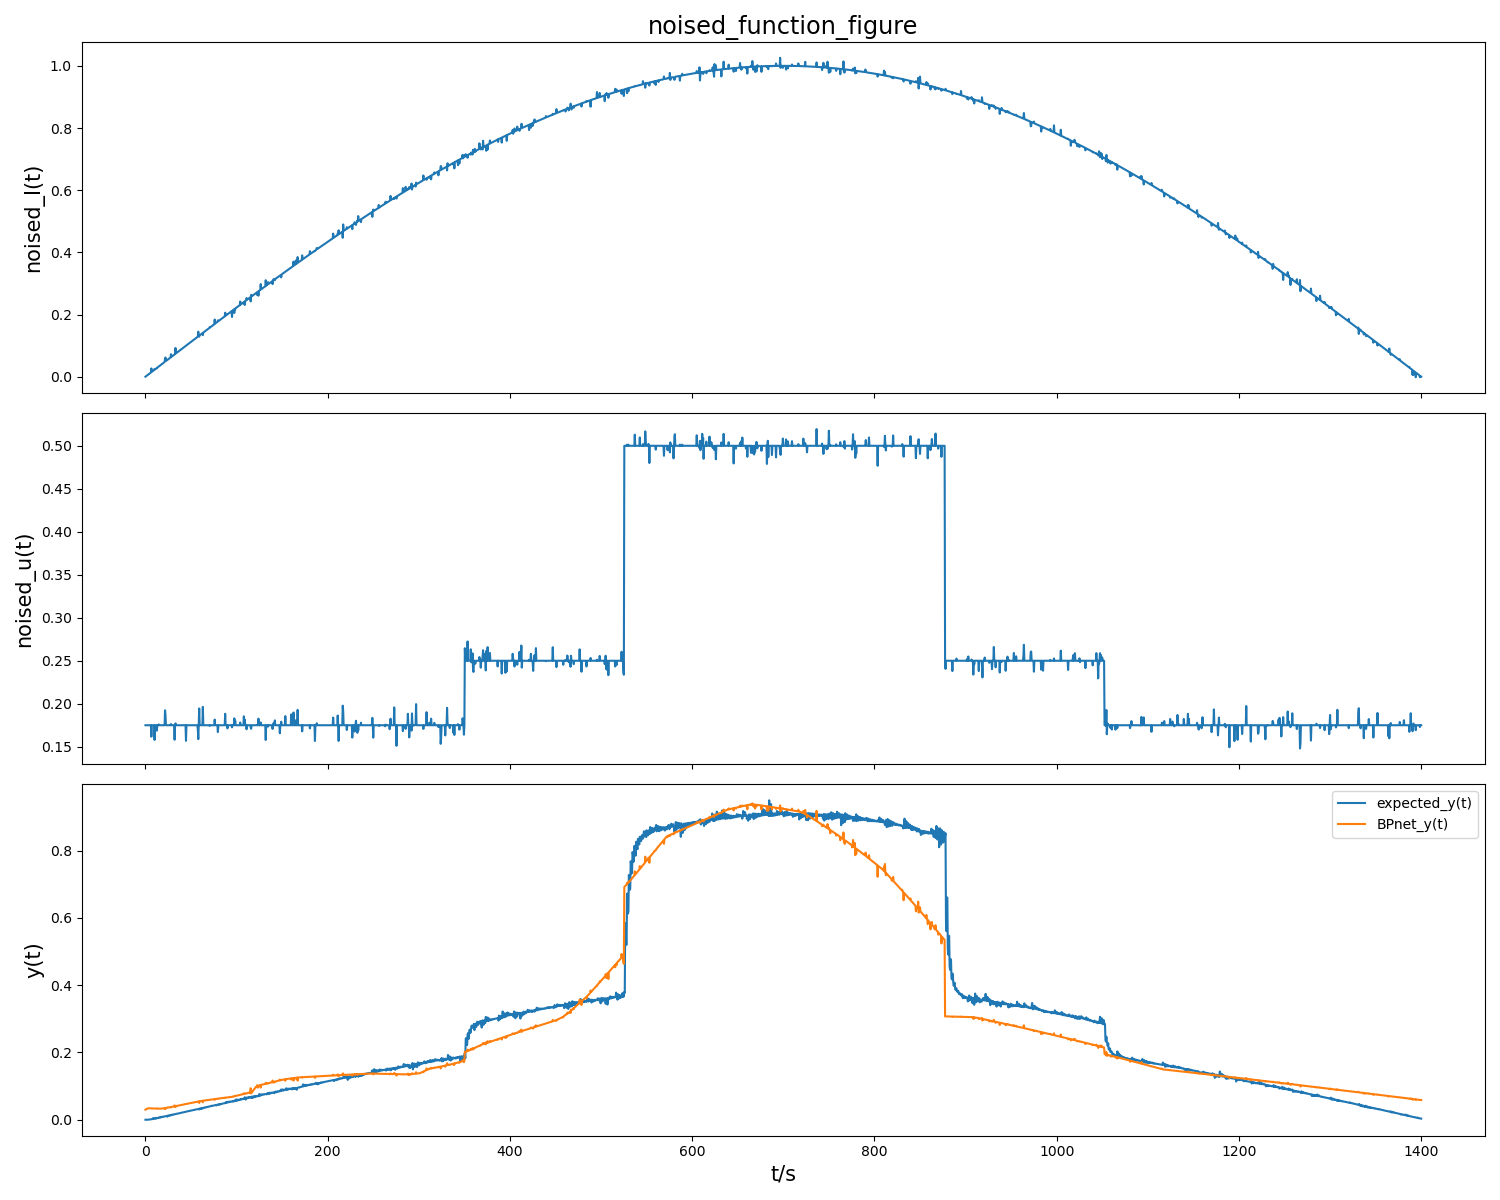
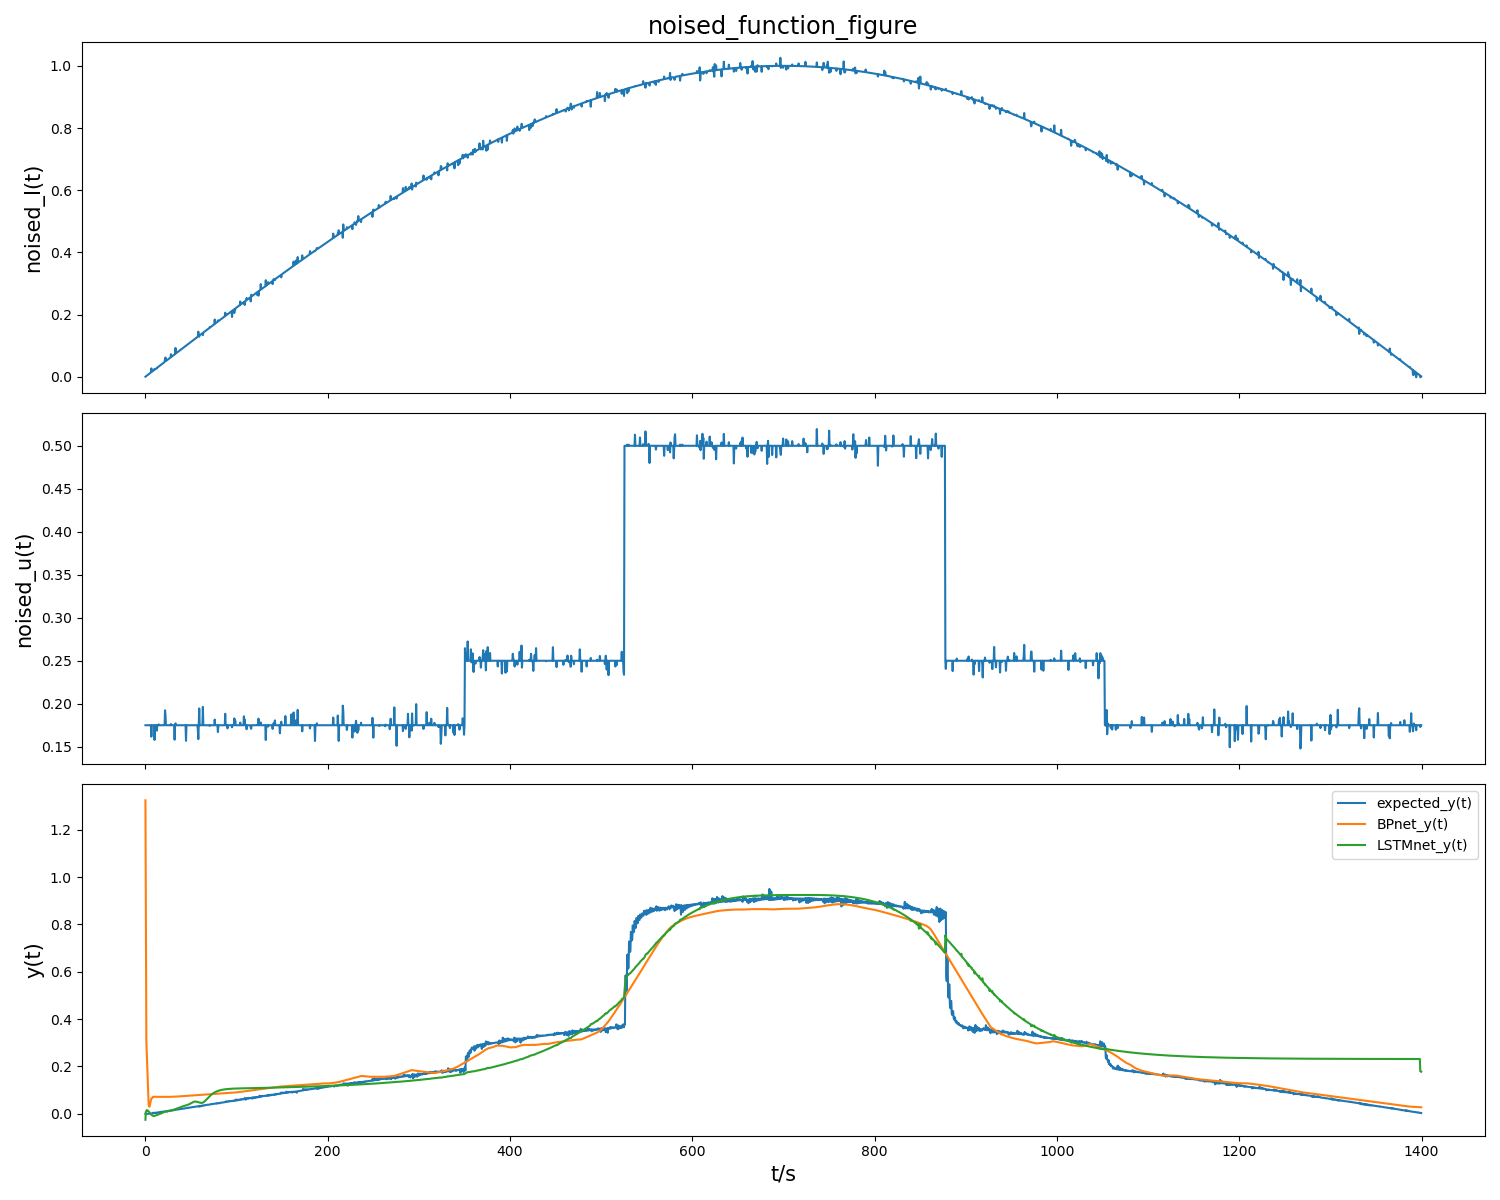
all finished

diff --git a/work3_LSTM.py b/work3_LSTM.py
@@ -10,7 +10,6 @@ from torch import nn
 import numpy as np
 import matplotlib.pyplot as plt
 from dataset import dataset
-import torchvision.transforms as transforms
 
 
 batch_size = 2000
@@ -63,7 +62,7 @@ class Mydataset(torch.utils.data.Dataset):
 
 
 class MyLSTM(nn.Module):
-    def __init__(self, inp_dim, out_dim, mid_dim, mid_layers, batch):
+    def __init__(self, inp_dim, out_dim, mid_dim, mid_layers, batch=True):
         """
         :param inp_dim: 单个样本点的特征维度，这里为 3
         :param out_dim: 所需预测输出的维度，这里为 1
@@ -90,82 +89,136 @@ class MyLSTM(nn.Module):
         return y
 
 
+def LSTM_mean(data_2D):
+
+    temp_2D = np.zeros((data_2D.shape[0], data_2D.shape[0]+3), dtype=np.float32)
+    for i in range(temp_2D.shape[0]):
+        temp_2D[i][i:i+4] = data_2D[i][:]
+    # data_1D = np.mean(temp_2D, 0)  # 沿着0方向取均值
+    exist = (temp_2D != 0)
+    num = np.sum(temp_2D, axis=0)
+    den = exist.sum(axis=0)
+    data_1D = num/den
+    return data_1D
+
+
 if __name__=="__main__":
 
     device = torch.device("cuda" if torch.cuda.is_available() else "cpu")
-    net = MyLSTM(input_size, output_size, mid_dim, mid_layers, True).to(device)
+    net = MyLSTM(input_size, output_size, mid_dim, mid_layers).to(device)
     criterion = nn.MSELoss()
     optimizer = torch.optim.Adam(net.parameters(), lr=1e-2)
 
     """ ---------------------使用Mydataset类进行训练和测试-----------------------"""
-    data_train = Mydataset(dataset, used_train_index)  # 训练集初始化
-    train_loader = torch.utils.data.DataLoader(data_train, batch_size=batch_size, shuffle=True)
+    # data_train = Mydataset(dataset, used_train_index)  # 训练集初始化
+    # train_loader = torch.utils.data.DataLoader(data_train, batch_size=batch_size)
+    #
+    # data_test = Mydataset(dataset, used_test_index)  # 测试集初始化
+    # test_loader = torch.utils.data.DataLoader(data_test, batch_size=400)
+    #
+    # data_test_rest = Mydataset(dataset, unused_data_index)  # 原始数据中剩余的数据集进行测试
+    # test_rest_loader = torch.utils.data.DataLoader(data_test_rest, batch_size=450)
+    # # 开始训练，并进行测试
+    # train_loss_record = []  # 保存训练数据
+    # test_loss_record = []  # 保存测试数据
+    # for i in range(epoch):
+    #     net.train()
+    #     loss_train_steps = 0.0
+    #     for j, (train_X, train_Y) in enumerate(train_loader):
+    #         # print(j)
+    #         train_X = train_X.to(device)
+    #         train_Y = train_Y.to(device)
+    #         out_train = net(train_X)  # [32,1,1]
+    #         loss_train = criterion(out_train, train_Y)  # [1,]
+    #         optimizer.zero_grad()
+    #         loss_train.backward()
+    #         optimizer.step()
+    #         loss_train_steps += loss_train.item()  # 保存loss
+    #     train_loss_record.append(loss_train_steps/(j+1))
+    #
+    #
+    #     # 开始测试
+    #     net = net.eval()
+    #     for j, (test_X, test_Y) in enumerate(test_loader):
+    #         test_X = test_X.to(device)
+    #         test_Y = test_Y.to(device)
+    #         out_test = net(test_X)  # [32,1,1]
+    #         loss_test = criterion(out_test, test_Y)  # [1,]
+    #         test_loss_record.append(loss_test.item())  # 保存loss
+    #
+    #     # 打印训练参数
+    #     if i % 100 == 0:
+    #         print('Epoch: {:4}, train Loss: {:.5f}, Test Loss: {:.5f}'
+    #               .format(i, loss_train_steps/(j+1), loss_test.item()))
+    #
+    # torch.save(net.state_dict(), './weights/LSTM_params.pth')
+    #
+    # # 测试剩余的数据
+    # # net_paras_path = './weights/LSTM_params.pth'
+    # # state_dict = torch.load(net_paras_path)
+    # # net.load_state_dict(state_dict)
+    # # net = net.eval()
+    # # # rest_loss_record = []  # 保存测试数据
+    # # for j, (test_X, test_Y) in enumerate(test_rest_loader):
+    # #     test_X = test_X.to(device)
+    # #     test_Y = test_Y.to(device)
+    # #     out_test = net(test_X)
+    # #     loss_test = criterion(out_test, test_Y)
+    # #     print(loss_test.item())  # 保存loss
+    # # out_test = out_test.cpu().squeeze(2).detach().numpy()
+    # # test_Y = test_Y.cpu().squeeze(2).detach().numpy()
+    #
+    # """ ------------------------绘制损失函数和精度----------------------------"""
+    # fig_name = "LSTMNet"
+    # fontsize = 15
+    # fig, (ax1, ax2) = plt.subplots(2, figsize=(15, 12), sharex=True)
+    # ax1.plot(train_loss_record)
+    # ax1.set_ylabel("train loss", fontsize=fontsize)
+    # ax1.set_title(fig_name, fontsize="xx-large")
+    # ax2.plot(test_loss_record)
+    # ax2.set_ylabel("test loss", fontsize=fontsize)
+    # ax2.set_xlabel("epochs", fontsize=fontsize)
+    # plt.tight_layout()
+    # plt.savefig('./results/' + fig_name + '.png')
+    # plt.show()
 
-    data_test = Mydataset(dataset, used_test_index)  # 测试集初始化
-    test_loader = torch.utils.data.DataLoader(data_test, batch_size=400, shuffle=True)
-
+    """ ------------------------利用所有数据与原始函数y对比----------------------------"""
     data_test_rest = Mydataset(dataset, unused_data_index)  # 原始数据中剩余的数据集进行测试
-    test_rest_loader = torch.utils.data.DataLoader(data_test_rest, batch_size=450, shuffle=True)
-    # 开始训练，并进行测试
-    train_loss_record = []  # 保存训练数据
-    test_loss_record = []  # 保存测试数据
-    for i in range(epoch):
-        net.train()
-        loss_train_steps = 0.0
-        for j, (train_X, train_Y) in enumerate(train_loader):
-            # print(j)
-            train_X = train_X.to(device)
-            train_Y = train_Y.to(device)
-            out_train = net(train_X)  # [32,1,1]
-            loss_train = criterion(out_train, train_Y)  # [1,]
-            optimizer.zero_grad()
-            loss_train.backward()
-            optimizer.step()
-            loss_train_steps += loss_train.item()  # 保存loss
-        train_loss_record.append(loss_train_steps/(j+1))
+    test_rest_loader = torch.utils.data.DataLoader(data_test_rest, batch_size=450)
 
+    # read LSTM model
+    data_test = Mydataset(dataset, data_index)
+    all_loader = torch.utils.data.DataLoader(data_test, batch_size=3000)
 
-        # 开始测试
-        net = net.eval()
-        for j, (test_X, test_Y) in enumerate(test_loader):
-            test_X = test_X.to(device)
-            test_Y = test_Y.to(device)
-            out_test = net(test_X)  # [32,1,1]
-            loss_test = criterion(out_test, test_Y)  # [1,]
-            test_loss_record.append(loss_test.item())  # 保存loss
+    model = MyLSTM(input_size, output_size, mid_dim, mid_layers)
+    model_paras_path = './weights/LSTM_params.pth'
+    state_dict = torch.load(model_paras_path)
+    model.load_state_dict(state_dict)
+    model.eval()
+    for j, (test_X, test_Y) in enumerate(all_loader):
+        test_X = test_X
+        test_Y = test_Y
+        LSTM_pre_all = model(test_X)  # [32,1,1]
+        LSTM_loss = criterion(LSTM_pre_all, test_Y)  # [1,]
+        print("全部数据的LSTM预测loss=", LSTM_loss.item())  # 保存loss
 
-        # 打印训练参数
-        if i % 100 == 0:
-            print('Epoch: {:4}, train Loss: {:.5f}, Test Loss: {:.5f}'
-                  .format(i, loss_train_steps/(j+1), loss_test.item()))
-
-    torch.save(net.state_dict(), './weights/LSTM_params.pth')
-
-    # net_paras_path = './weights/LSTM_params.pth'
-    # state_dict = torch.load(net_paras_path)
-    # net.load_state_dict(state_dict)
-    # net = net.eval()
-    # # rest_loss_record = []  # 保存测试数据
-    # for j, (test_X, test_Y) in enumerate(test_rest_loader):
-    #     test_X = test_X.to(device)
-    #     test_Y = test_Y.to(device)
-    #     out_test = net(test_X)  # [32,1,1]
-    #     loss_test = criterion(out_test, test_Y)  # [1,]
-    #     print(loss_test.item())  # 保存loss
-
-    """ ------------------------绘制损失函数和精度----------------------------"""
-    fig_name = "LSTMNet"
+    # 绘制曲线
+    fig_name = "LSTMNet_y"
     fontsize = 15
-    fig, (ax1, ax2) = plt.subplots(2, figsize=(15, 12), sharex=True)
-    ax1.plot(train_loss_record)
-    ax1.set_ylabel("train loss", fontsize=fontsize)
-    ax1.set_title(fig_name, fontsize="xx-large")
-    ax2.plot(test_loss_record)
-    ax2.set_ylabel("test loss", fontsize=fontsize)
-    ax2.set_xlabel("epochs", fontsize=fontsize)
+    x_range = dataset[0:2800, 0]
+    true_y = dataset[0:2800, -1]
+    pre_y = LSTM_pre_all.squeeze(2).detach().numpy()  # [2797,4]
+    pre_y = LSTM_mean(pre_y)
+    plt.xlabel("t/s")  # 给x轴起名字
+    plt.ylabel("y")  # 给y轴起名字
+    plt.plot(x_range, true_y, label='true_y(t)')
+    plt.plot(x_range, pre_y, label='LSTMnet_y(t)')
+    plt.legend()
     plt.tight_layout()
     plt.savefig('./results/' + fig_name + '.png')
     plt.show()
+
+    print("finished")
 
 
 

diff --git a/work2_noise.py b/work2_noise.py
@@ -8,6 +8,8 @@ import torch
 import numpy as np
 import matplotlib.pyplot as plt
 from work1_BP import BPNetModel,n_feature,hiddens,n_output
+from work3_LSTM import MyLSTM, Mydataset, input_size, output_size, mid_dim, mid_layers
+from work3_LSTM import data_index as LSTM_data_index
 
 
 normal_mu = 0.0
@@ -86,8 +88,22 @@ def output_noised_y(t, y1, y2):
     return y
 
 
+def LSTM_mean(data_2D):
+
+    temp_2D = np.zeros((data_2D.shape[0], data_2D.shape[0]+3), dtype=np.float32)
+    for i in range(temp_2D.shape[0]):
+        temp_2D[i][i:i+4] = data_2D[i][:]
+    # data_1D = np.mean(temp_2D, 0)  # 沿着0方向取均值
+    exist = (temp_2D != 0)
+    num = np.sum(temp_2D, axis=0)
+    den = exist.sum(axis=0)
+    data_1D = num/den
+    return data_1D
+
+
 if __name__=="__main__":
 
+    # 生成噪声数据
     data_array = []
     y_before = [0.0, 0.0, 0.0, 0.0]  # 时间往左向后推进，每0.5秒一个值
     t = 0.0  # 共2801个数据对
@@ -98,32 +114,53 @@ if __name__=="__main__":
         y_before.pop(0)
         y_before.append(y_t)
         t += 0.5
-    dataset_noised = np.array(data_array).astype(np.float32)
-    dataset_noised = torch.tensor(dataset_noised)
+    dataset_numpy = np.array(data_array, dtype=np.float32)
+    dataset_noised = torch.tensor(dataset_numpy)
 
-    # read model
+    # read BP model
     loss_fun = torch.nn.MSELoss()
     model = BPNetModel(n_feature=n_feature, hiddens=hiddens, n_output=n_output)
     model.eval()
     model_paras_path = './weights/BP_params.pth'
     state_dict = torch.load(model_paras_path)
     model.load_state_dict(state_dict)
-    pre_noised = model(dataset_noised[:,0:3])
-    loss_noised = loss_fun(pre_noised, dataset_noised[:,-1])  # 预测值和真实值对比
-    print("添加噪声后的的预测loss", loss_noised.item())
+    BP_pre_noised = model(dataset_noised[:,0:3])
+    BP_loss = loss_fun(BP_pre_noised, dataset_noised[:,-1])  # 预测值和真实值对比
+    print("添加噪声后的的BP预测loss=", BP_loss.item())
+
+    # read LSTM model
+    data_test = Mydataset(dataset_numpy, LSTM_data_index)
+    noise_loader = torch.utils.data.DataLoader(data_test, batch_size=3000)
+
+    model = MyLSTM(input_size, output_size, mid_dim, mid_layers)
+    model_paras_path = './weights/LSTM_params.pth'
+    state_dict = torch.load(model_paras_path)
+    model.load_state_dict(state_dict)
+    model.eval()
+    for j, (test_X, test_Y) in enumerate(noise_loader):
+        test_X = test_X
+        test_Y = test_Y
+        LSTM_pre_noised = model(test_X)  # [32,1,1]
+        LSTM_loss = loss_fun(LSTM_pre_noised, test_Y)  # [1,]
+        print("添加噪声后的的LSTM预测loss=", LSTM_loss.item())  # 保存loss
 
     # 绘制曲线
+    x_range = dataset_noised[0:2800, 0].detach().numpy()
+    BP_y = BP_pre_noised[0:2800, 0].detach().numpy()  # 用于观察数据
+    LSTM_y = LSTM_pre_noised.squeeze(2).detach().numpy()  # [2797,4]
+    LSTM_y = LSTM_mean(LSTM_y)  # (2800,) 将LSTM_y的二维数据根据LSTM特性求均值变为一维数据
     fontsize = 15
     fig, (ax1, ax2, ax3) = plt.subplots(3, figsize=(15, 12), sharex=True)
-    ax1.plot(dataset_noised[:, 0], dataset_noised[:, 1])
+    ax1.plot(x_range, dataset_noised[0:2800, 1])
     ax1.set_ylabel("noised_I(t)", fontsize=fontsize)
     ax1.set_title("noised_function_figure", fontsize="xx-large")
-    ax2.plot(dataset_noised[:, 0], dataset_noised[:, 2])
+    ax2.plot(x_range, dataset_noised[0:2800, 2])
     ax2.set_ylabel("noised_u(t)", fontsize=fontsize)
     ax3.set_ylabel("y(t)", fontsize=fontsize)
     ax3.set_xlabel("t/s", fontsize=fontsize)
-    ax3.plot(dataset_noised[:, 0].detach().numpy(), dataset_noised[:, 3].detach().numpy(), label='expected_y(t)')
-    ax3.plot(dataset_noised[:, 0].detach().numpy(), pre_noised.detach().numpy(), label='BPnet_y(t)')
+    ax3.plot(x_range, dataset_noised[0:2800,3].detach().numpy(), label='expected_y(t)')
+    ax3.plot(x_range, BP_y, label='BPnet_y(t)')
+    ax3.plot(x_range, LSTM_y, label='LSTMnet_y(t)')
     plt.legend()
     plt.tight_layout()
     plt.savefig('./results/noised_function_figure.png')

diff --git a/work1_BP.py b/work1_BP.py
@@ -8,7 +8,7 @@ import torch
 import torch.nn.functional as Fun
 import numpy as np
 import matplotlib.pyplot as plt
-from dataset import data_train,data_test
+from dataset import dataset, data_train, data_test
 
 
 lr = 0.01  # 学习率
@@ -41,8 +41,6 @@ class BPNetModel(torch.nn.Module):
         x = Fun.relu(self.hiddden3(x))
         out = self.out(x)
 
-
-        # out = Fun.softmax(out, dim=1)  # 输出层采用softmax函数
         return out
 
 
@@ -95,6 +93,32 @@ if __name__ == "__main__":
     ax2.plot(test_loss_array)
     ax2.set_ylabel("test loss", fontsize=fontsize)
     ax2.set_xlabel("epochs", fontsize=fontsize)
+    plt.tight_layout()
+    plt.savefig('./results/' + fig_name + '.png')
+    plt.show()
+
+    # 与原y(t)图像对比
+    model = BPNetModel(n_feature=n_feature, hiddens=hiddens, n_output=n_output)
+    model.eval()
+    model_paras_path = './weights/BP_params.pth'
+    state_dict = torch.load(model_paras_path)
+    model.load_state_dict(state_dict)
+    x_all = torch.tensor(dataset[:, 0:3])
+    y_all = torch.tensor(dataset[:, -1]).unsqueeze(1)
+    BP_pre_all = model(x_all)
+    BP_loss = loss_fun(BP_pre_all, y_all)  # 预测值和真实值对比
+    print("全部数据的BP预测loss=", BP_loss.item())
+
+    fig_name = "BPNet_y"
+    fontsize = 15
+    x_range = dataset[:, 0]
+    true_y = dataset[:, -1]
+    pre_y = BP_pre_all.detach().numpy()[:, 0]
+    plt.xlabel("t/s")  # 给x轴起名字
+    plt.ylabel("y")  # 给y轴起名字
+    plt.plot(x_range, true_y, label='true_y(t)')
+    plt.plot(x_range, pre_y, label='BPnet_y(t)')
+    plt.legend()
     plt.tight_layout()
     plt.savefig('./results/' + fig_name + '.png')
     plt.show()
